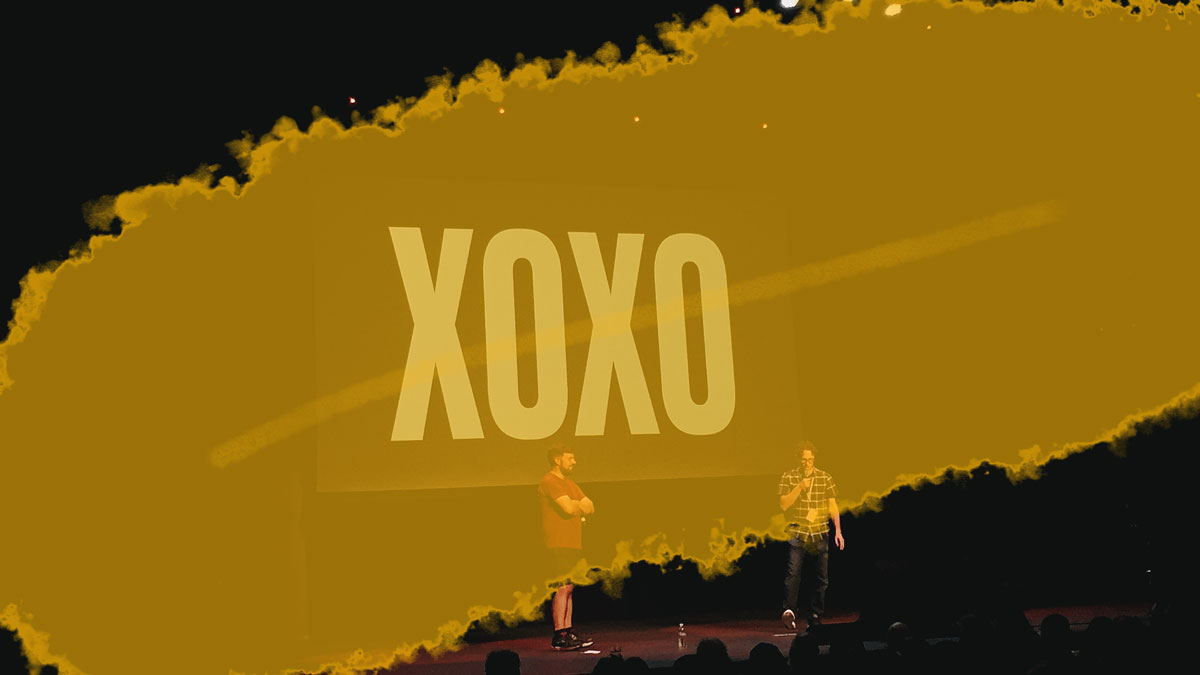
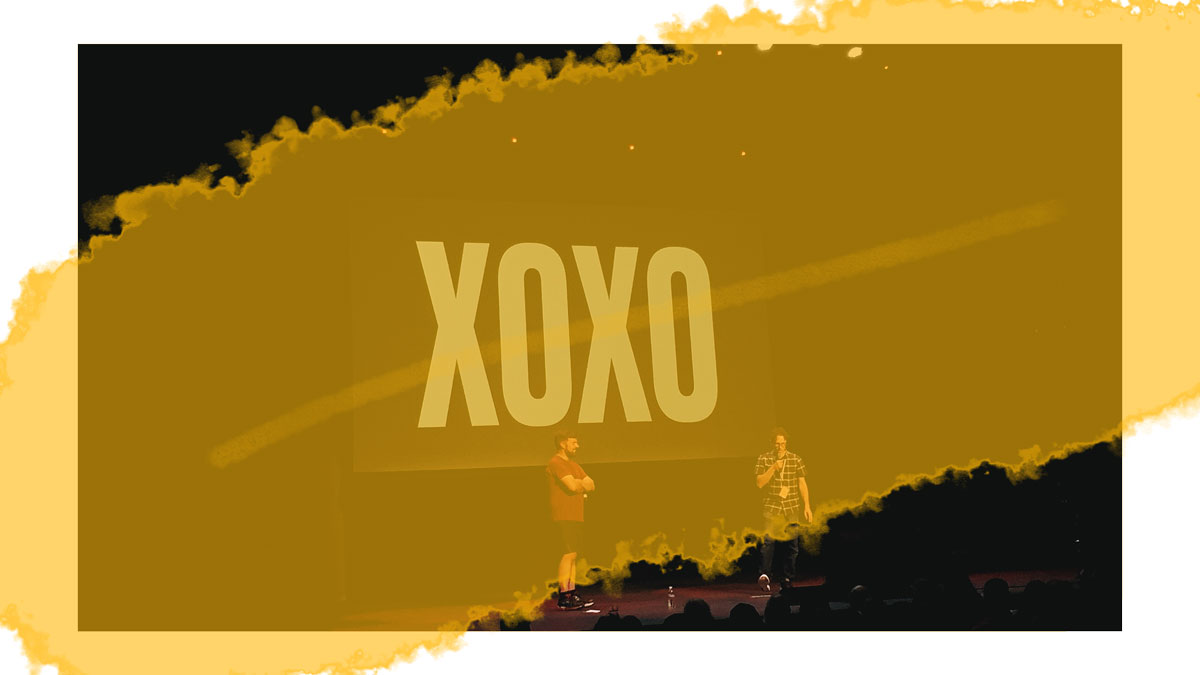
Updating header image.

diff --git a/_site/xoxo.html b/_site/xoxo.html
@@ -53,7 +53,7 @@
             <div class="section typeset post">
 	<h4 class="zeta">XOXO</h4>
 	<p class="meta">13-09-16</p>
-	<p><img src="/uploads/xoxo/xoxo.jpg" alt="The Andys" /></p>
+	<p><img src="/uploads/xoxo/xoxo.png" alt="The Andys" /></p>
 
 <p>On the Monday after last year’s festival I flew straight home and got back to my life, leaving no time to process the weekend I just had.</p>
 

diff --git a/_site/writing/index.html b/_site/writing/index.html
@@ -55,7 +55,7 @@
       
         <h4 class="zeta"><a href="/xoxo">XOXO</a></h4>
         <p class="date">13 Sep 2016</p>
-        <p><img src="/uploads/xoxo/xoxo.jpg" alt="The Andys" </p>
+        <p><img src="/uploads/xoxo/xoxo.png" alt="The Andys" </p>
 
 
       

diff --git a/_posts/2016-09-13-xoxo.md b/_posts/2016-09-13-xoxo.md
@@ -3,7 +3,7 @@ layout: post
 title: XOXO
 ---
 
-![The Andys](/uploads/xoxo/xoxo.jpg)
+![The Andys](/uploads/xoxo/xoxo.png)
 
 On the Monday after last year's festival I flew straight home and got back to my life, leaving no time to process the weekend I just had.
 
